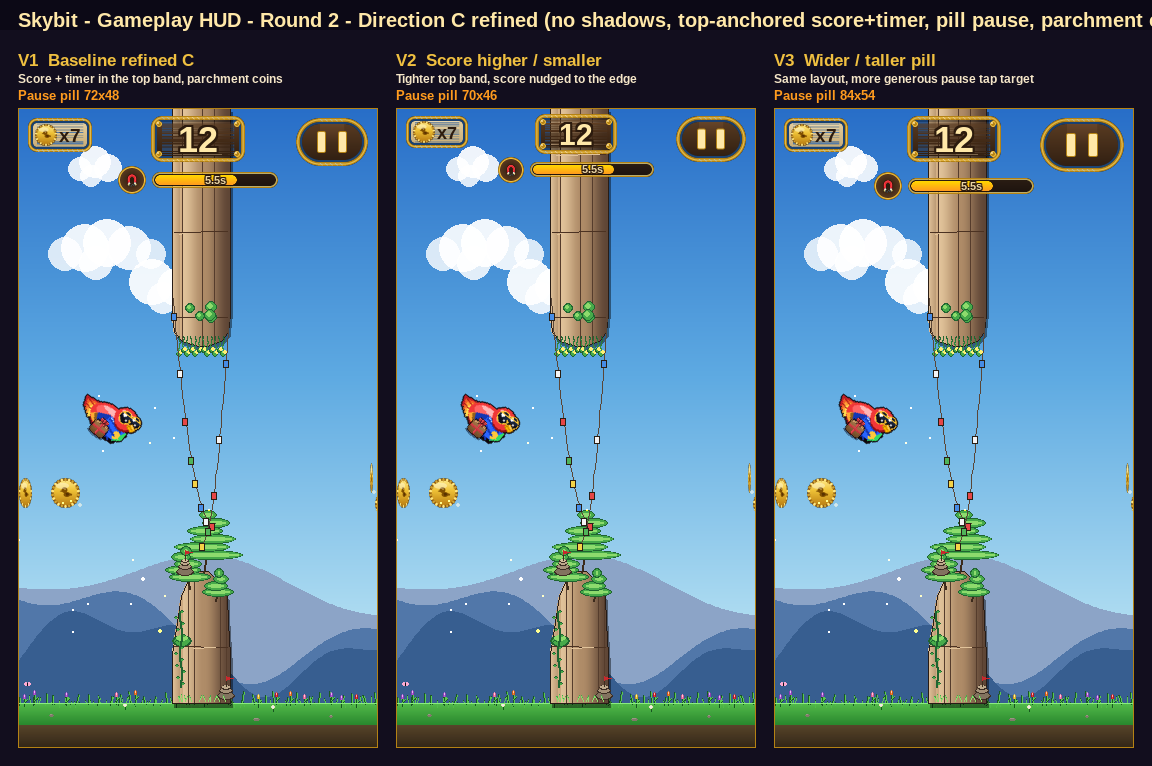
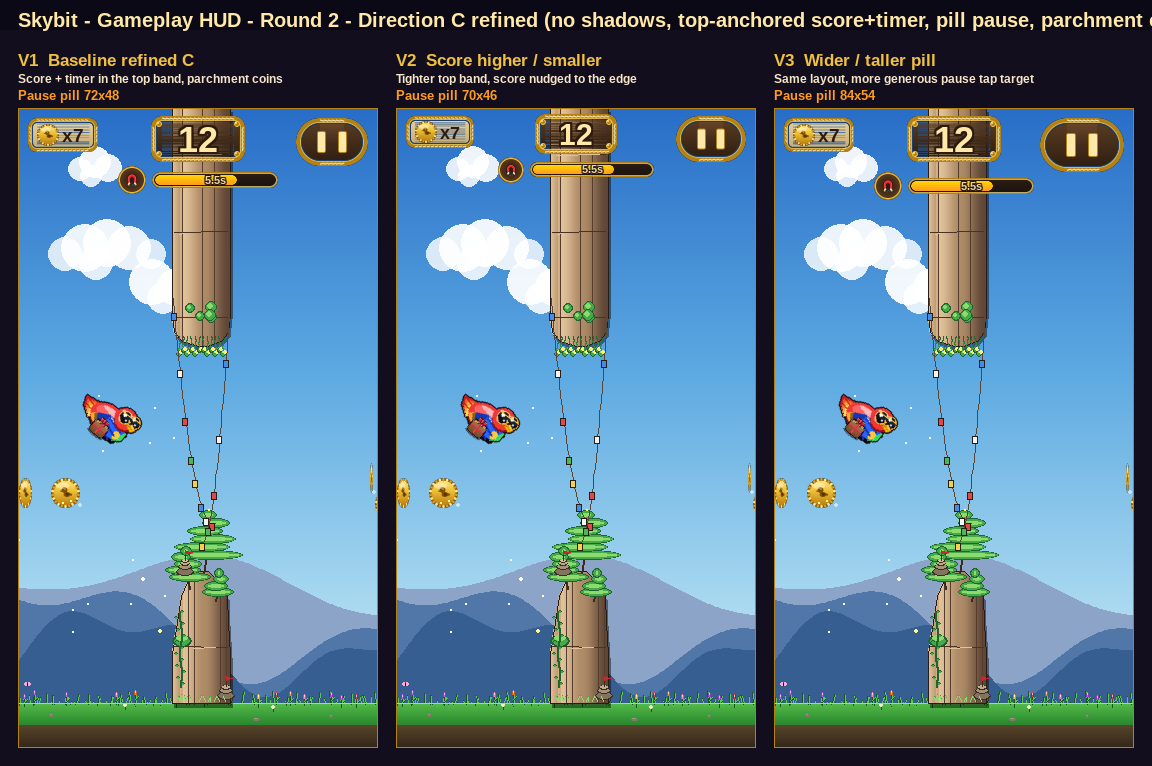
Round 2: refine gameplay HUD direction C (Adventure Plaques)
Apply the four locked changes to the chosen direction:
- drop all cast/drop shadows; relief now comes only from body gradient,
  carved inner groove, and the rope inner-light highlight (flat silhouette)
- push the score banner and power-up timer into the very top band, out of
  the central pillar corridor; drop the rope hangers
- pause is a wider-than-tall wood pill (>=52px tap target) with the gold
  rope-band rim, top-right inset
- re-theme the coin counter to a parchment rope-band plaque (carved family)

Make the gold rope-band read as braided rope at native scale (round-1 read
as a plain double rim) and clear the coin face off the rim. Three proportion
micro-variants (V1 baseline, V2 higher/smaller, V3 wider/taller pill).

https://claude.ai/code/session_017Z3zLhntZrsy2aMti6pFtg

diff --git a/tools/gen_gameplay_hud_round2.py b/tools/gen_gameplay_hud_round2.py
@@ -161,23 +161,34 @@ def _outlined(surf, txt, center, size, fill, outline, px):
 
 
 def _rope_band(ss, ow, oh, orad, width_n):
-    """Twisted gold rope rim: an outer deep-gold band, a bright inner thread,
-    and short diagonal nicks that read as the rope's lay. Drawn on the
-    supersampled surface so it stays crisp once scaled down."""
+    """Twisted gold rope rim: an outer deep-gold band carrying a chain of
+    bright diagonal twist-strands that read as braided rope even after the
+    surface is scaled back to native (the round-1 band read as a plain double
+    rim — bumping the strand contrast + pitch is what makes the braid legible).
+    A thin pale inner thread closes the bevel. Drawn on the supersampled surf."""
     pygame.draw.rect(ss, _GOLD_DEEP, (0, 0, ow, oh), width=width_n,
                      border_radius=orad)
-    pygame.draw.rect(ss, (*_GOLD_BRIGHT, 235),
-                     (width_n // 3, width_n // 3,
-                      ow - 2 * (width_n // 3), oh - 2 * (width_n // 3)),
-                     width=max(SS, width_n // 3), border_radius=max(1, orad - width_n // 3))
-    # diagonal twist nicks along the top + bottom runs
-    step = 5 * SS
-    for x in range(orad, ow - orad, step):
-        pygame.draw.line(ss, (*_GOLD_PALE, 150),
-                         (x, width_n // 4), (x + 2 * SS, width_n - width_n // 4), SS)
-        pygame.draw.line(ss, (*_GOLD_PALE, 150),
-                         (x, oh - width_n + width_n // 4),
-                         (x + 2 * SS, oh - width_n // 4), SS)
+    # Braided twist-strands: bright diagonal ticks marching along each run,
+    # pitched at ~45deg, spaced so a couple of strands survive per native pixel.
+    strand_w = max(SS, width_n // 3)
+    pitch = max(4 * SS, width_n)
+    inset = width_n // 2
+    for x in range(orad, ow - orad, pitch):
+        pygame.draw.line(ss, (*_GOLD_PALE, 230),
+                         (x, inset), (x + width_n, width_n - inset // 2), strand_w)
+        pygame.draw.line(ss, (*_GOLD_PALE, 230),
+                         (x, oh - inset), (x + width_n, oh - width_n + inset // 2),
+                         strand_w)
+    for y in range(orad, oh - orad, pitch):
+        pygame.draw.line(ss, (*_GOLD_PALE, 230),
+                         (inset, y), (width_n - inset // 2, y + width_n), strand_w)
+        pygame.draw.line(ss, (*_GOLD_PALE, 230),
+                         (ow - inset, y), (ow - width_n + inset // 2, y + width_n),
+                         strand_w)
+    # thin bright inner thread closes off the bevel
+    pygame.draw.rect(ss, (*_GOLD_BRIGHT, 220),
+                     (width_n, width_n, ow - 2 * width_n, oh - 2 * width_n),
+                     width=SS, border_radius=max(1, orad - width_n))
 
 
 def _rivets(ss, ow, oh, m):
@@ -305,13 +316,15 @@ def _timer_row(surf, top_y, bar_w=126, bar_h=16, icon=28):
 
 # ── the three top-anchored proportion variants ──────────────────────────────
 def _coins_plaque(surf, top_y=10, h=34, font_px=19):
+    # Extra left padding clears the coin face off the rope rim; the count sits
+    # in deep wood-brown so it reads as carved into the parchment.
     ct = f"x{COINS}"
-    cw = _font(font_px, True).size(ct)[0] + 42
+    cw = _font(font_px, True).size(ct)[0] + 48
     cp = pygame.Rect(10, top_y, cw, h)
     _wood_plaque(surf, cp, 9, parchment=True, band=3, rivets=False)
-    _coin_icon(surf, cp.x + 18, cp.centery, 10)
+    _coin_icon(surf, cp.x + 20, cp.centery, 10)
     ci = _font(font_px, True).render(ct, True, _WOOD_DK)
-    surf.blit(ci, ci.get_rect(midleft=(cp.x + 31, cp.centery)))
+    surf.blit(ci, ci.get_rect(midleft=(cp.x + 34, cp.centery)))
 
 
 def variant_v1(surf):
